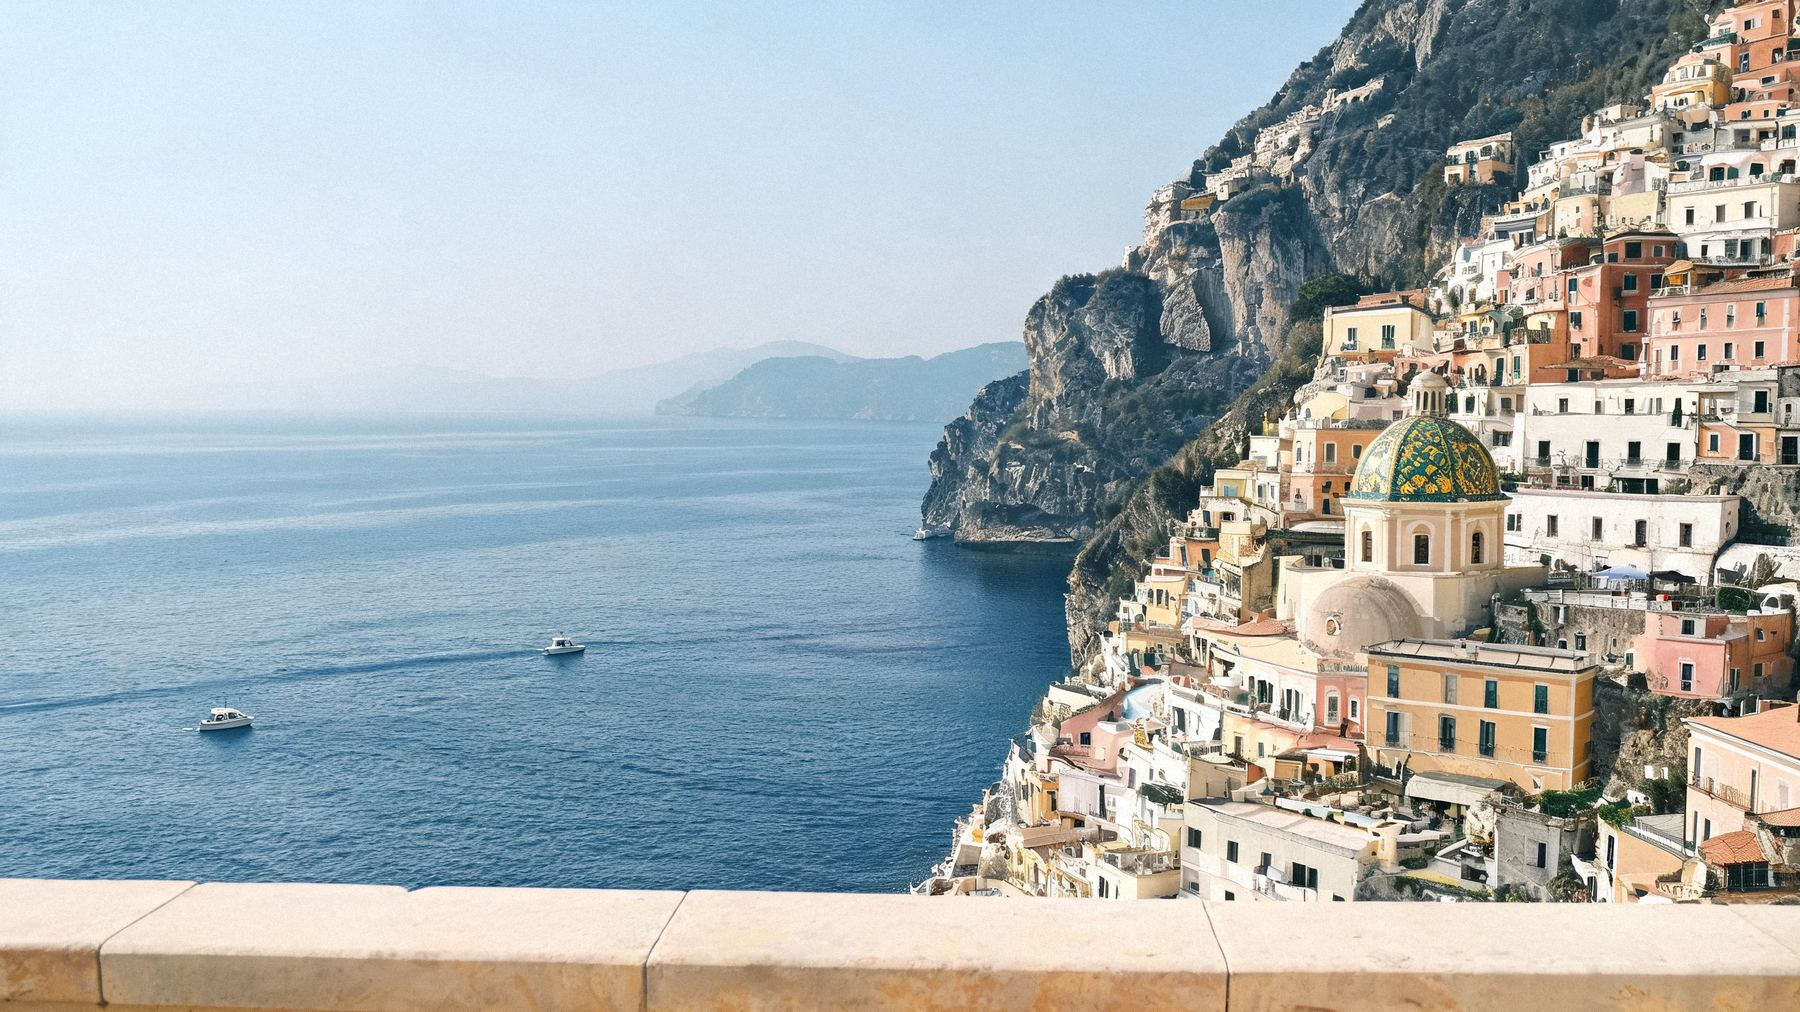
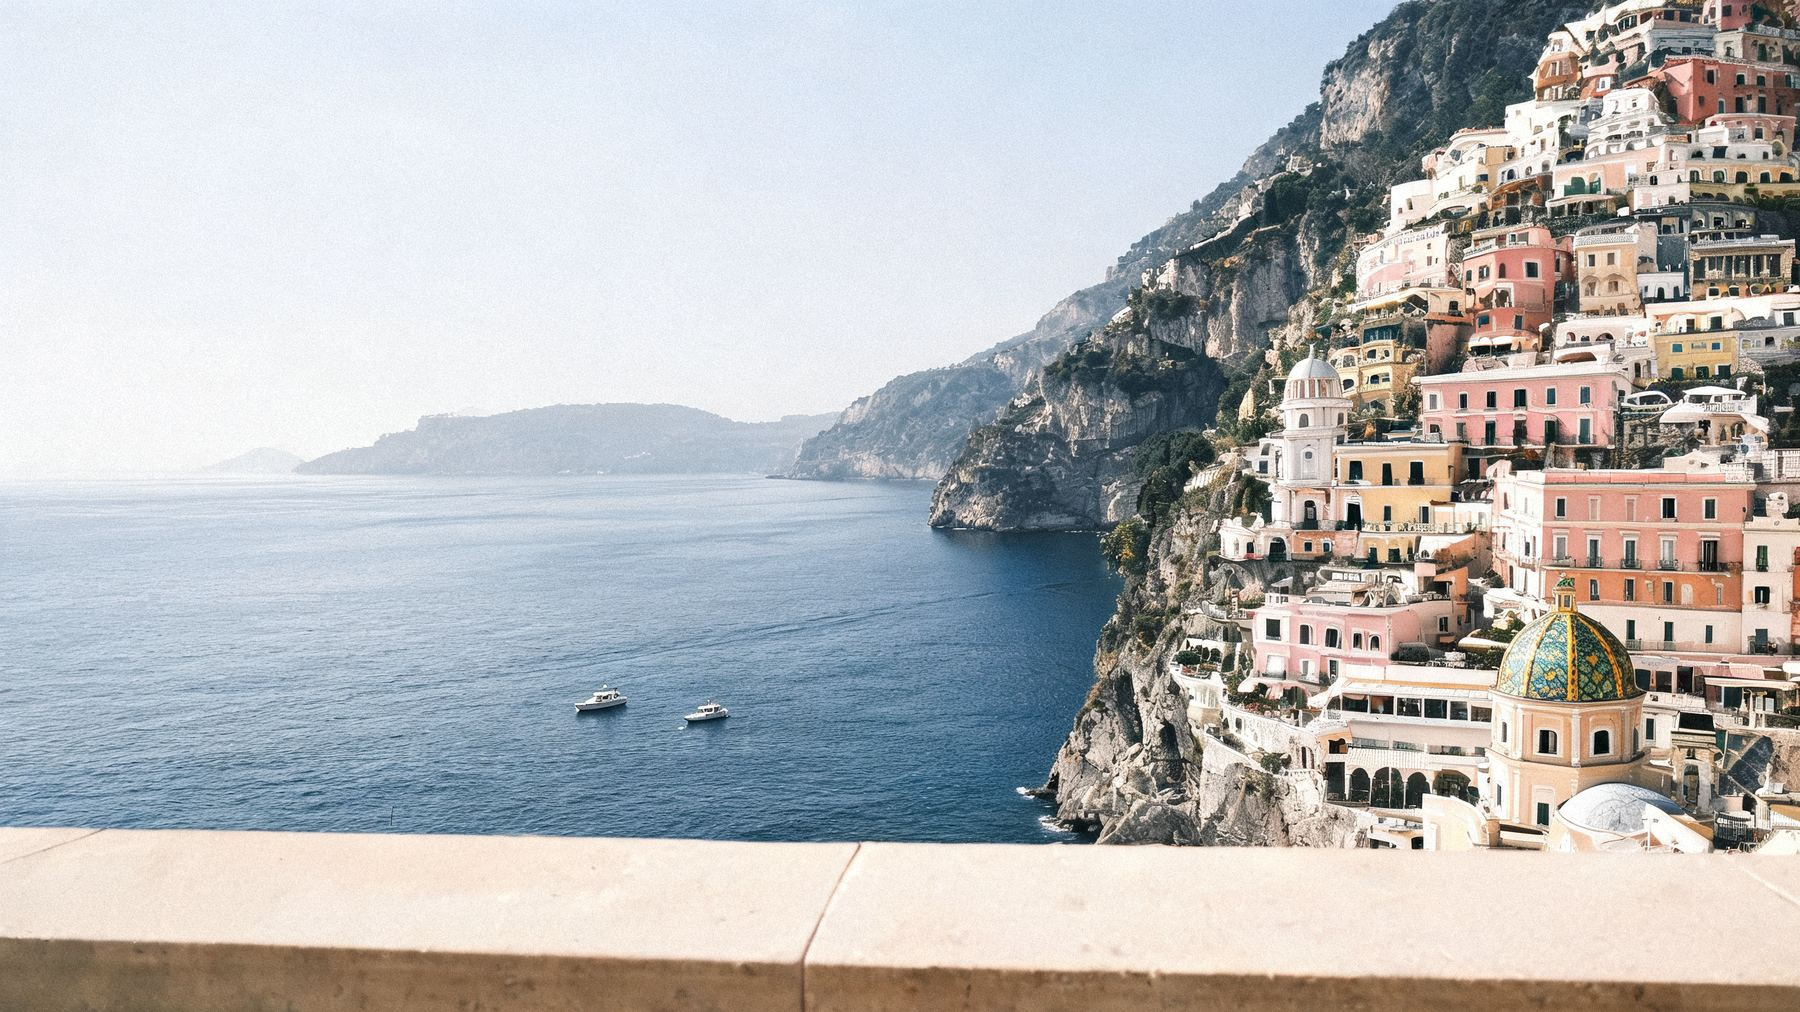
feat(designs): Amalfi photographed throughout, under the commercial licence
Replaces the coast and view merged in #84, which were generated on the
free plan (no commercial licence), with versions generated on Starter.
Adds a photographed painted shutter in place of the CSS louvres (left
mirrored for the right), the window set in a photographed limewashed
wall, and a hand-painted majolica tile over each section head.

diff --git a/public/designs/amalfi/wedding-design.css b/public/designs/amalfi/wedding-design.css
@@ -1300,3 +1300,43 @@
             .shutter, .shutters { transition: none; }
             .opening-glare { display: none; }
         }
+
+        /* ============================================================
+           LUMA: PHOTOGRAPHED, NOT DRAWN
+           The shutters are a photograph of a real painted shutter (the
+           left one mirrored for the right), the window sits in a
+           photographed limewashed wall, and each section head carries a
+           hand-painted majolica tile. The gradients they replace are the
+           part of this page that read as generated.
+           ============================================================ */
+        .shutter-view {
+            background:
+                radial-gradient(60% 46% at 50% 44%, hsl(44 60% 98% / .35) 0%, transparent 70%),
+                url("assets/wall.jpg") center / cover no-repeat;
+        }
+        .shutters::before {
+            background: url("assets/wall.jpg") center / 260% auto;
+            box-shadow: inset 0 3px 12px hsl(28 26% 50% / .55), 0 26px 54px hsl(26 30% 38% / .28);
+        }
+        .shutter {
+            padding: 0;
+            background: hsl(150 12% 40%) url("assets/shutter-l.jpg") center / 100% 100% no-repeat;
+            box-shadow: inset 0 0 18px hsl(166 24% 12% / .35);
+            border-color: hsl(166 18% 30%);
+        }
+        .shutter-right { background-image: url("assets/shutter-r.jpg"); }
+        .shutter i { display: none; }
+
+        main section > .reveal.text-center > h2::before,
+        #our-story h2::before {
+            content: "";
+            display: block;
+            width: 52px; height: 52px;
+            margin: 0 auto 16px;
+            background: url("assets/tile-a.jpg") center / cover;
+            border-radius: 2px;
+            box-shadow: 0 0 0 1px hsl(30 20% 80%), 0 6px 14px -6px hsl(201 50% 20% / .45);
+        }
+        #our-story h2::before { margin-left: 0; background-image: url("assets/tile-b.jpg"); }
+        #schedule h2::before { background-image: url("assets/tile-c.jpg"); }
+        #faq-section h2::before { background-image: url("assets/tile-b.jpg"); }

diff --git a/public/designs/amalfi/index.html b/public/designs/amalfi/index.html
@@ -29,7 +29,7 @@
 
     <!-- This design's own look. To build a new design, copy this file and
          wedding-design.css and restyle freely - wedding-core.js is untouched. -->
-    <link rel="stylesheet" href="wedding-design.css?v=11">
+    <link rel="stylesheet" href="wedding-design.css?v=12">
     <!-- Luma: the shared refinements for the base layout (copy, countdown, reply card) -->
     <link rel="stylesheet" href="../_shared/luma-refine.css?v=2">
 
